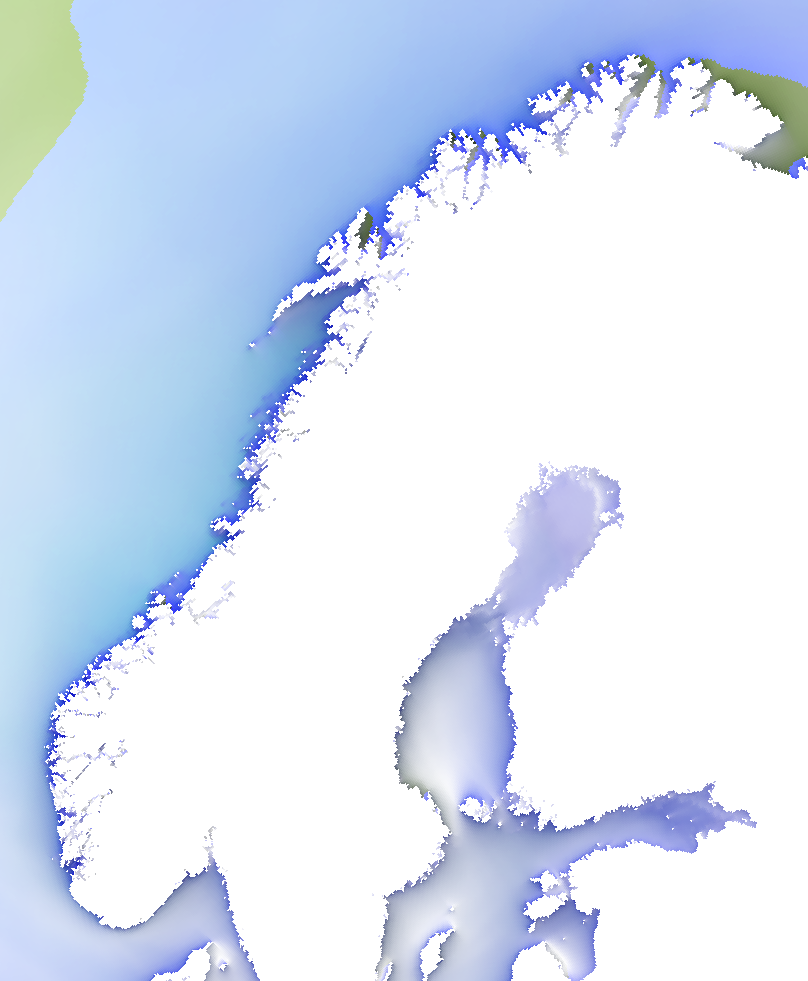
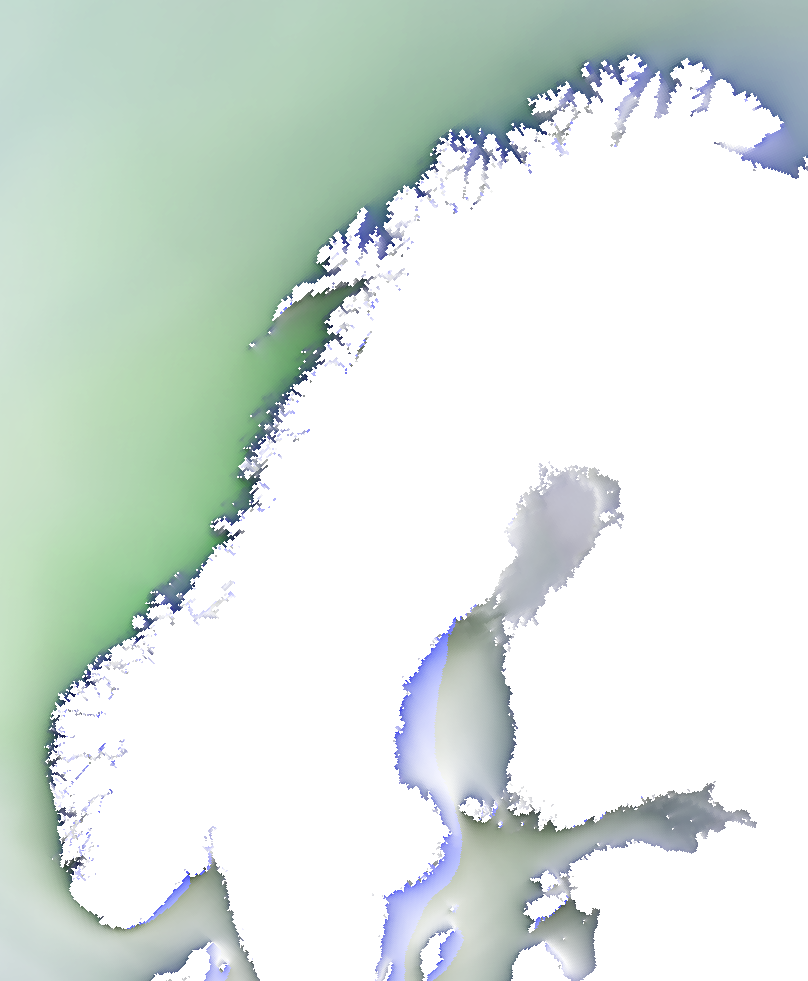
Climatology: month selector on the map, direction arrows, correct bearings
The wave and wind monthly normals now carry the month selector on the map
itself and draw direction arrows over the colour: the colour is the monthly
mean, the arrow points the way the waves or wind travel, and its thickness is
the 90th percentile. Arrows are re-sampled for the visible area as the map
moves, so their density follows the zoom, and each is a single barbed line so
the head always sits at the tip.

MET's thq and dd are already "to" directions (sea_surface_wave_to_direction,
wind_to_direction), but the accumulation added 180°, so every stored bearing
pointed backwards. Dropped the rotation, rotated the monthly statistics on the
archive and re-rendered the PNGs; January waves now travel east towards the
coast.

Claude-Session: https://claude.ai/code/session_01176HA4QzLHRQozQGzd3J8y

diff --git a/web/src/i18n/nb.ts b/web/src/i18n/nb.ts
@@ -245,8 +245,8 @@ export const nb: Record<string, string> = {
   'hint.weekHeat.treatment': `For hver kartpiksel: andelen rapporterende anlegg innen R km som registrerte mekanisk eller medikamentell behandling i valgt uke, vektet med 1 − (d/R)². Brakklagte og ikke-rapporterende anlegg er utelatt. Skalaen topper på 50 % av anleggene i nærheten; nasjonalt ligger 90-prosentilen nær 35 %. Bytt tilbake til lusepress på tidslinjen eller i ⚙ Innstillinger. ${BW}`,
   'clim.month': 'Måned',
   'clim.hover': 'snitt {mean} {u}, 90-persentil {p90} {u}, mot {dir}, retningsstabilitet {steady}',
-  'clim.legend.waves': 'Middels signifikant bølgehøyde for måneden, 2023–2025',
-  'clim.legend.wind': 'Middels vindstyrke i 10 m for måneden, 2023–2025',
+  'clim.legend.waves': 'Farge: middels signifikant bølgehøyde for måneden, 2023–2025. Piler: retningen den går mot, tykkelsen er 90-persentilen.',
+  'clim.legend.wind': 'Farge: middels vindstyrke i 10 m for måneden, 2023–2025. Piler: retningen den går mot, tykkelsen er 90-persentilen.',
   'hint.climMonth': 'Hvilken kalendermåned klimatologien viser. Alle timer i den måneden i 2023, 2024 og 2025 er slått sammen, så dette er normalen for årstiden, ikke et varsel. Hold pekeren over kartet for snitt, 90-persentil, retningen bølgene eller vinden går mot, og hvor stabil den retningen er. Kilde: MET Norway NORA3-hindcast (CC BY 4.0), bearbeidet på det eksterne arkivet og pakket med appen.',
   'layer.clim-waves.title': 'Bølgehøyde, månedsnormal',
   'layer.clim-waves.desc': 'Middels signifikant bølgehøyde for valgt måned over 2023–2025 (NORA3-hindcast), dekodes på enheten.',
@@ -528,6 +528,7 @@ export const nb: Record<string, string> = {
   'help.map.6': '**Filterbrikker** under menyen viser aktive feltfiltre (se Detaljer); ✕ fjerner ett, «Fjern alle» fjerner alle.',
   'help.map.8': '**Lus per uke** (Akvakultur-fanen) farger prikkene etter lusetallet hvert anlegg rapporterte i én uke, og **det ukentlige varmekartet** jevner ut enten rapporterte lus eller anlegg behandlet den uken over R km (bytt på tidslinjen eller i ⚙ Innstillinger); en tidslinje nederst på kartet velger år og uke: klikk eller dra, ◀ ▶ eller piltaster flytter én uke, Page Up/Down ett år. Kurvene viser per uke andelen rapporterende anlegg over grensen (oransje) og andelen med registrert behandling (blå). Hold pekeren over en prikk eller kartet for verdien.',
   'help.map.7': '**Farger:** hver oppdretter med 16 eller flere lokaliteter har en fast farge, gruppert etter merkenavn slik at beslektede selskaper deler fargetone i lysere og mørkere varianter (prikken ved hvert navn i selskapsvelgeren); andre er grå; en valgt mindre oppdretter låner en ledig farge så lenge den er valgt. Fargede prikker tegnes over grå, største oppdrettere øverst. Grafene bruker samme farger.',
+  'help.map.9': '**Månedsnormaler** for bølgehøyde og vindstyrke (Hav-fanen) fargelegger sjøen etter snittet for én måned over 2023–2025, og en **månedsvelger** ligger på kartet når et slikt lag er på. Pilene viser hvilken vei bølgene eller vinden går, og tykkelsen er 90-prosentilen, slik at en tykk pil markerer et sted som er rolig i snitt, men grovt i den verste tidelen av timene. Hold over kartet for tallene.',
   'help.site.title': 'Detaljpanel',
   'help.site.1': 'Registerfelt fra Akvakulturregisteret: nummer, status, kapasitet, arter, innehavere, formål, produksjonsform, plassering, kommune, produksjonsområde, første klarering, med lenke til registeret.',
   'help.site.2': '**Klikk på en feltverdi** (status, kapasitet, art, formål, produksjonsform, plassering, kommune, produksjonsområde) for å åpne en liste over alle verdier feltet har, med antall lokaliteter; kapasitet tilbyr intervaller i multipler av standardtillatelsen på 780 t. Velg én for å vise bare lokaliteter som passer («Alle» fjerner filteret). Det aktive feltet blir blått med en rød ✕ som fjerner filteret. Filtrene kombineres med oppdrettervalget og huskes.',

diff --git a/web/src/i18n/en.ts b/web/src/i18n/en.ts
@@ -245,8 +245,8 @@ export const en: Record<string, string> = {
   'hint.weekHeat.treatment': `For every map pixel: the share of reporting farms within R km that registered a mechanical or medicinal treatment in the chosen week, weighted by 1 − (d/R)². Fallow and non-reporting farms are left out. The scale tops out at 50 % of nearby farms; nationally the 90th percentile is near 35 %. Switch back to lice pressure on the scrubber or in ⚙ Settings. ${BW}`,
   'clim.month': 'Month',
   'clim.hover': 'mean {mean} {u}, 90th percentile {p90} {u}, towards {dir}, steadiness {steady}',
-  'clim.legend.waves': 'Mean significant wave height for the month, 2023–2025',
-  'clim.legend.wind': 'Mean 10 m wind speed for the month, 2023–2025',
+  'clim.legend.waves': 'Colour: mean significant wave height for the month, 2023–2025. Arrows: direction travelled, thickness = 90th percentile.',
+  'clim.legend.wind': 'Colour: mean 10 m wind speed for the month, 2023–2025. Arrows: direction travelled, thickness = 90th percentile.',
   'hint.climMonth': 'Which calendar month the climatology shows. Every hour of that month in 2023, 2024 and 2025 is pooled, so it is the normal condition for that time of year, not a forecast. Hover the map for the mean, the 90th percentile, the direction the waves or wind travel towards, and how steady that direction is. Source: MET Norway NORA3 hindcast (CC BY 4.0), processed on the external archive and bundled with the app.',
   'layer.clim-waves.title': 'Wave height, monthly normal',
   'layer.clim-waves.desc': 'Mean significant wave height for the chosen month over 2023–2025 (NORA3 hindcast), decoded on the device.',
@@ -528,6 +528,7 @@ export const en: Record<string, string> = {
   'help.map.6': '**Filter chips** under the dropdown show active field filters (see Site panel); ✕ clears one, "Clear all" clears them.',
   'help.map.8': '**Lice per week** (Aquaculture tab) colours the dots by the lice each farm reported in one week, and the **weekly heatmap** smooths either the reported lice or the farms treated that week over R km (switch on the scrubber or in ⚙ Settings); a scrubber at the bottom of the map picks the year and week: click or drag the timeline, ◀ ▶ or arrow keys step a week, Page Up/Down a year. Its sparklines show, per week, the share of reporting farms above the limit (orange) and the share with a treatment registered (blue). Hover a dot or the map for the value.',
   'help.map.7': '**Colours:** every operator with 16 or more sites has a fixed colour, grouped by brand so related companies share a hue in lighter and darker variants (the dot beside each name in the operator dropdown); other operators are grey; a selected smaller operator borrows a free colour while selected. Coloured dots are drawn above grey ones, largest operators on top. Charts use the same colours.',
+  'help.map.9': '**Monthly normals** for wave height and wind speed (Ocean tab) colour the sea by the mean for one month over 2023–2025; a **month selector** sits on the map while such a layer is on. Arrows point the way the waves or wind travel, and their thickness is the 90th percentile, so a thick arrow marks a place that is calm on average but rough in the worst tenth of hours. Hover the map for the numbers.',
   'help.site.title': 'Site panel (Inspect)',
   'help.site.1': 'Register fields from Akvakulturregisteret: number, status, capacity, species, operators, purpose, production form, placement, municipality, production area, first clearance, with a link to the register.',
   'help.site.2': '**Click a field value** (status, capacity, species, purpose, production form, placement, municipality, production area) to open a list of every value that field takes, with site counts; capacity offers ranges in multiples of the 780 t standard licence. Pick one to show only matching sites ("Any" removes it). The active field turns blue with a red ✕ that clears that filter. Filters combine with the operator selection and are remembered.',

diff --git a/web/src/lib/climatology.ts b/web/src/lib/climatology.ts
@@ -116,3 +116,77 @@ export const CLIM_RAMP = ['#f2f7fb', '#cfe3f2', '#9dc9e8', '#6cb0d6', '#7fc08a',
 const current = new Map<string, ClimGrid>()
 export const setClimGrid = (id: string, g: ClimGrid | null) => (g ? current.set(id, g) : current.delete(id))
 export const climGrid = (id: string) => current.get(id)
+
+/** Direction arrows for a climatology layer live in their own source, refreshed as the map moves. */
+export const climArrowSource = (id: string) => `${id}-arrows`
+
+export interface ArrowSample {
+  lon: number
+  lat: number
+  /** direction the waves or wind travel towards, degrees from north */
+  dir: number
+  mean: number
+  p90: number
+}
+
+/**
+ * Samples the grid on a regular lon/lat lattice inside `bounds`, for direction arrows.
+ * `cols` sets how many arrows span the view, so the density follows the zoom.
+ */
+export const ARROW_COLS = 16
+
+/** Lattice spacing in degrees latitude, i.e. the on-screen gap between arrows. */
+function arrowStep(south: number, north: number, west: number, east: number, cols: number) {
+  return ((east - west) / cols) * Math.cos((((north + south) / 2) * Math.PI) / 180)
+}
+
+export function climArrows(grid: ClimGrid, bounds: [number, number, number, number], cols = ARROW_COLS): { samples: ArrowSample[]; step: number } {
+  const [w, s, e, n] = bounds
+  const west = Math.max(w, grid.layer.bounds[0])
+  const east = Math.min(e, grid.layer.bounds[2])
+  const south = Math.max(s, grid.layer.bounds[1])
+  const north = Math.min(n, grid.layer.bounds[3])
+  if (east <= west || north <= south) return { samples: [], step: 0 }
+  const stepLon = (east - west) / cols
+  // Keep the lattice roughly square on screen at this latitude.
+  const step = arrowStep(south, north, west, east, cols)
+  const samples: ArrowSample[] = []
+  for (let lat = south + step / 2; lat < north; lat += step)
+    for (let lon = west + stepLon / 2; lon < east; lon += stepLon) {
+      const v = climAt(grid, lon, lat)
+      if (!v || v.direction == null) continue
+      samples.push({ lon, lat, dir: v.direction, mean: v.mean, p90: v.p90 })
+    }
+  return { samples, step }
+}
+
+/** Degrees north/east for a bearing and an on-screen length given in degrees latitude. */
+function offset(bearing: number, lat: number, len: number): [number, number] {
+  const rad = (bearing * Math.PI) / 180
+  return [(Math.sin(rad) * len) / Math.max(0.2, Math.cos((lat * Math.PI) / 180)), Math.cos(rad) * len]
+}
+
+/**
+ * One barbed arrow per sample, drawn as a single line that runs out to the tip and
+ * doubles back over each barb, so the head always sits at the end of the shaft.
+ */
+export function arrowGeoJSON(samples: ArrowSample[], lengthDeg: number) {
+  const barb = lengthDeg * 0.32
+  return {
+    type: 'FeatureCollection' as const,
+    features: samples.map((a) => {
+      const [dLon, dLat] = offset(a.dir, a.lat, lengthDeg)
+      const tail: [number, number] = [a.lon - dLon / 2, a.lat - dLat / 2]
+      const tip: [number, number] = [a.lon + dLon / 2, a.lat + dLat / 2]
+      const wing = (side: number): [number, number] => {
+        const [bLon, bLat] = offset(a.dir + 180 + side * 30, a.lat, barb)
+        return [tip[0] + bLon, tip[1] + bLat]
+      }
+      return {
+        type: 'Feature' as const,
+        geometry: { type: 'LineString' as const, coordinates: [tail, tip, wing(-1), tip, wing(1)] },
+        properties: { dir: a.dir, mean: a.mean, p90: a.p90 },
+      }
+    }),
+  }
+}

diff --git a/web/src/components/ClimatologyLayer.tsx b/web/src/components/ClimatologyLayer.tsx
@@ -1,6 +1,6 @@
 import { useEffect, useRef } from 'react'
 import type { ImageSource, Map as MlMap } from 'maplibre-gl'
-import { CLIM_RAMP, loadClimGrid, setClimGrid, type ClimManifest } from '../lib/climatology'
+import { arrowGeoJSON, climArrows, climArrowSource, CLIM_RAMP, loadClimGrid, setClimGrid, type ClimGrid, type ClimManifest } from '../lib/climatology'
 import { useSettings } from '../lib/settings'
 
 interface Props {
@@ -18,6 +18,8 @@ export default function ClimatologyLayer({ map, id, field, manifest }: Props) {
   const s = useSettings()
   const enabled = s.overlays.includes(id)
   const canvas = useRef<HTMLCanvasElement>(document.createElement('canvas'))
+  const gridRef = useRef<ClimGrid | null>(null)
+  const timer = useRef<number | undefined>(undefined)
 
   useEffect(() => {
     const layer = manifest?.layers[field]
@@ -26,8 +28,9 @@ export default function ClimatologyLayer({ map, id, field, manifest }: Props) {
       return
     }
     let live = true
-    loadClimGrid(field, layer, s.climMonth).then((grid) => {
-      if (!live || !grid) return
+    loadClimGrid(field, layer, s.climMonth).then((g) => {
+      if (!live || !g) return
+      const grid = g
       setClimGrid(id, grid)
       const src = map.getSource(id) as ImageSource | undefined
       if (!src) return
@@ -58,9 +61,31 @@ export default function ClimatologyLayer({ map, id, field, manifest }: Props) {
           [w, sth],
         ],
       })
+      gridRef.current = grid
+      drawArrows()
     })
+    // Arrows are re-sampled for the visible area, so their density follows the zoom.
+    const drawArrows = () => {
+      const g = gridRef.current
+      const src = map.getSource(climArrowSource(id)) as { setData?: (d: unknown) => void } | undefined
+      if (!g || !src?.setData) return
+      const b = map.getBounds()
+      const bounds: [number, number, number, number] = [b.getWest(), b.getSouth(), b.getEast(), b.getNorth()]
+      // Just over half the lattice spacing, so the arrows read as a field and keep a gap.
+      const { samples, step } = climArrows(g, bounds)
+      src.setData(arrowGeoJSON(samples, step * 0.6))
+    }
+    const schedule = () => {
+      window.clearTimeout(timer.current)
+      timer.current = window.setTimeout(drawArrows, 150)
+    }
+    map.on('moveend', schedule)
+    map.on('styledata', schedule)
     return () => {
       live = false
+      window.clearTimeout(timer.current)
+      map.off('moveend', schedule)
+      map.off('styledata', schedule)
     }
   }, [map, id, field, manifest, enabled, s.climMonth])
 

diff --git a/web/src/components/MapView.tsx b/web/src/components/MapView.tsx
@@ -13,6 +13,7 @@ import {
 } from 'maplibre-gl'
 import { BASE_LAYERS, LOCALITIES_LAYER, OVERLAY_LAYERS, SALMON_COLOUR, layerById, wmsTileUrl } from '../lib/layers'
 import { OPERATOR_COLOURS, OTHER_COLOUR, paletteFor } from '../lib/operatorColours'
+import { climArrowSource } from '../lib/climatology'
 import { getSettings, updateSettings, useSettings, type Settings } from '../lib/settings'
 import { type ApplicationProps, dataUrl, type LocalityProps } from '../lib/localities'
 import { filteredTileUrl } from '../lib/tileFilters'
@@ -29,6 +30,8 @@ export type Selection =
 const NOT_REPORTED_ALPHA = 0.2
 /** Ring on sites over the lice limit in force that week (0.2 in the spring weeks, else 0.5). */
 const OVER_LIMIT_STROKE = '#7f0d0d'
+
+const CLIM_ARROW_COLOUR = '#1b3a4b'
 
 export const CURRENTS_LAYER = 'measured-currents'
 /** Measured current speed: a circle sized by the mean, with an arrow for the dominant direction. */
@@ -165,6 +168,21 @@ function buildStyle(
         coordinates: [[-180, 85], [180, 85], [180, -85], [-180, -85]],
       }
       layers.push({ id: l.id, type: 'raster', source: l.id, paint: { 'raster-opacity': 1, 'raster-resampling': 'linear' } })
+      if (l.id.startsWith('clim-')) {
+        // Arrows show the direction; their width is the 90th percentile, while the image shows the mean.
+        sources[climArrowSource(l.id)] = { type: 'geojson', data: { type: 'FeatureCollection', features: [] } }
+        layers.push({
+          id: `${l.id}-arrow-line`,
+          type: 'line',
+          source: climArrowSource(l.id),
+          layout: { 'line-join': 'round', 'line-cap': 'round' },
+          paint: {
+            'line-color': CLIM_ARROW_COLOUR,
+            'line-opacity': 0.8,
+            'line-width': ['interpolate', ['linear'], ['get', 'p90'], 0, 0.5, 8, 3.2] as unknown as ExpressionSpecification,
+          },
+        })
+      }
       continue
     }
     if (l.kind === 'wms') {

diff --git a/web/src/lib/__tests__/climatology.test.ts b/web/src/lib/__tests__/climatology.test.ts
@@ -1,0 +1,29 @@
+import { describe, expect, it } from 'vitest'
+import { arrowGeoJSON, type ArrowSample } from '../climatology'
+
+const sample = (dir: number): ArrowSample => ({ lon: 5, lat: 60, dir, mean: 1, p90: 2 })
+
+describe('arrowGeoJSON', () => {
+  it('draws a shaft that points the way the waves travel, with the head at the tip', () => {
+    const [f] = arrowGeoJSON([sample(0)], 1).features
+    const [tail, tip, left, again, right] = f.geometry.coordinates
+    expect(tip[1]).toBeGreaterThan(tail[1]) // due north
+    expect(tip[1] - tail[1]).toBeCloseTo(1, 6)
+    expect(again).toEqual(tip)
+    // Barbs sit behind the tip, one either side of the shaft.
+    expect(left[1]).toBeLessThan(tip[1])
+    expect(right[1]).toBeLessThan(tip[1])
+    expect(Math.sign(left[0] - tip[0])).toBe(-Math.sign(right[0] - tip[0]))
+  })
+
+  it('stretches east-west so the arrow keeps its length on screen', () => {
+    const [f] = arrowGeoJSON([sample(90)], 1).features
+    const [tail, tip] = f.geometry.coordinates
+    expect(tip[0] - tail[0]).toBeCloseTo(1 / Math.cos((60 * Math.PI) / 180), 6)
+    expect(tip[1]).toBeCloseTo(tail[1], 6)
+  })
+
+  it('carries the mean and the 90th percentile through to the line', () => {
+    expect(arrowGeoJSON([sample(180)], 1).features[0].properties).toMatchObject({ dir: 180, mean: 1, p90: 2 })
+  })
+})

diff --git a/web/src/components/ClimMonthControl.tsx b/web/src/components/ClimMonthControl.tsx
@@ -1,0 +1,27 @@
+import { CLIM_FIELDS, MONTHS, type ClimManifest } from '../lib/climatology'
+import { numberLocale, useT } from '../lib/i18n'
+import { updateSettings, useSettings } from '../lib/settings'
+
+/** Month picker on the map itself, shown while a climatology overlay is on. */
+export default function ClimMonthControl({ manifest }: { manifest: ClimManifest | null }) {
+  const t = useT()
+  const s = useSettings()
+  const on = Object.keys(CLIM_FIELDS).filter((id) => s.overlays.includes(id))
+  if (!on.length || !manifest) return null
+  const names = on.map((id) => t(`layer.${id}.title`).replace(/\s*\([^)]*\)\s*$/, '')).join(' · ')
+  return (
+    <div className="clim-control">
+      <label>
+        {t('clim.month')}
+        <select value={s.climMonth} onChange={(e) => updateSettings({ climMonth: Number(e.target.value) })} aria-label={t('clim.month')}>
+          {MONTHS.map((m) => (
+            <option key={m} value={m}>
+              {new Date(Date.UTC(2024, m - 1, 1)).toLocaleDateString(numberLocale(), { month: 'long', timeZone: 'UTC' })}
+            </option>
+          ))}
+        </select>
+      </label>
+      <small className="muted">{names}</small>
+    </div>
+  )
+}

diff --git a/web/src/index.css b/web/src/index.css
@@ -234,6 +234,15 @@ tr.filtered .field-filter { color: var(--brand); font-weight: 600; text-decorati
   background: transparent; color: #b42318; border: 0; padding: 0 4px; margin-left: 6px; font-size: 13px; line-height: 1; cursor: pointer; font-weight: 700;
 }
 .field-clear:hover { color: #7a1a12; }
+.clim-control {
+  position: absolute; top: 10px; left: 50%; transform: translateX(-50%); z-index: 5;
+  background: rgba(255,255,255,.95); border: 1px solid var(--line); border-radius: 8px; box-shadow: 0 4px 14px rgba(0,0,0,.2);
+  padding: 5px 10px; font-size: 13px; display: flex; flex-direction: column; gap: 2px; align-items: center;
+}
+.clim-control label { display: inline-flex; align-items: center; gap: 6px; white-space: nowrap; }
+.clim-control select { font: inherit; padding: 2px 6px; }
+.clim-control small { font-size: 11px; }
+main:has(aside) .clim-control { transform: translateX(calc(-50% - 170px)); }
 .lice-slider {
   position: absolute; left: 50%; bottom: 34px; transform: translateX(-50%); z-index: 5; width: min(900px, calc(100% - 140px));
   background: rgba(255,255,255,.95); border: 1px solid var(--line); border-radius: 8px; box-shadow: 0 4px 14px rgba(0,0,0,.2);

diff --git a/web/src/App.tsx b/web/src/App.tsx
@@ -29,6 +29,7 @@ import { loadFishHealth, liceStatsIndex, type FishHealth } from './lib/fishhealt
 import { loadCases, type Cases } from './lib/cases'
 import { CLIM_FIELDS, loadClimManifest, type ClimManifest } from './lib/climatology'
 import ClimatologyLayer from './components/ClimatologyLayer'
+import ClimMonthControl from './components/ClimMonthControl'
 import { loadSeaTemp, loadTides, warmAtSeasonWeek, warmAtWeek, warmCounts, type SeaTemp, type Tides } from './lib/siteData'
 import { useOnline } from './lib/offline'
 import { updateSettings, useSettings, type PanelId } from './lib/settings'
@@ -175,6 +176,7 @@ function MapApp() {
         <ContextMenu menu={menu} onClose={() => setMenu(null)} />
         <OperatorDropdown localities={localities} map={map} />
         <FilterChips />
+        <ClimMonthControl manifest={clim} />
         <HoverInfo map={map} />
         {Object.entries(CLIM_FIELDS).map(([id, field]) => (
           <ClimatologyLayer key={id} map={map} id={id} field={field} manifest={clim} />

diff --git a/web/src/components/HelpPanel.tsx b/web/src/components/HelpPanel.tsx
@@ -2,7 +2,7 @@ import { useT } from '../lib/i18n'
 
 const SECTIONS: { id: string; items: number }[] = [
   { id: 'header', items: 4 },
-  { id: 'map', items: 8 },
+  { id: 'map', items: 9 },
   { id: 'site', items: 4 },
   { id: 'chart', items: 4 },
   { id: 'cases', items: 4 },

diff --git a/pipeline/climatology/accumulate.py b/pipeline/climatology/accumulate.py
@@ -142,7 +142,9 @@ def _read_day_worker(source_name: str, y: int, m: int, d: int, out: str) -> None
             arrays[f"{f.name}_dir"] = (np.degrees(np.arctan2(u, v)) + 360.0) % 360.0  # bearing the flow goes to
         elif f.direction:
             arrays[f"{f.name}_speed"] = ds[f.speed].values.astype(np.float32)
-            arrays[f"{f.name}_dir"] = (ds[f.direction].values.astype(np.float32) + 180.0) % 360.0  # "from" -> "to"
+            # MET's thq and dd are already "to" directions (standard_name sea_surface_wave_to_direction,
+            # wind_to_direction), so they are taken as they stand.
+            arrays[f"{f.name}_dir"] = ds[f.direction].values.astype(np.float32) % 360.0
         else:
             val = ds[f.speed].values.astype(np.float32)
             raw[f.speed] = val

diff --git a/pipeline/climatology/config.py b/pipeline/climatology/config.py
@@ -31,7 +31,7 @@ class Field:
     units: str
     #: variable holding the magnitude, or None when derived from `uv`
     speed: str | None
-    #: variable holding the "from" direction in degrees, or None when derived from `uv`
+    #: variable holding the direction the waves/wind travel to, in degrees, or None when derived from `uv`
     direction: str | None
     #: (eastward, northward) component variables
     uv: tuple[str, str] | None
